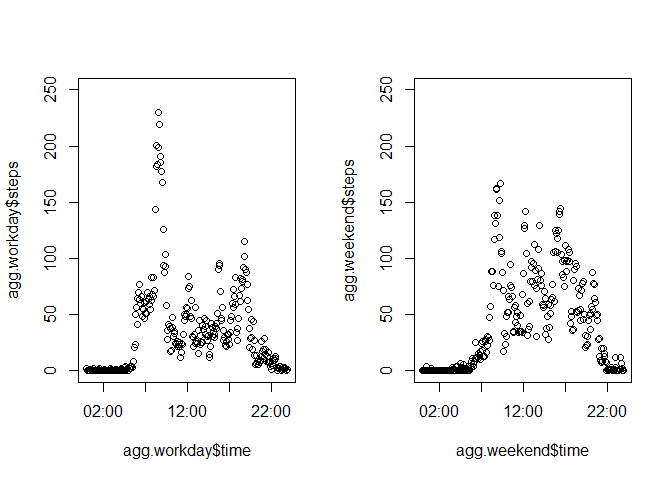
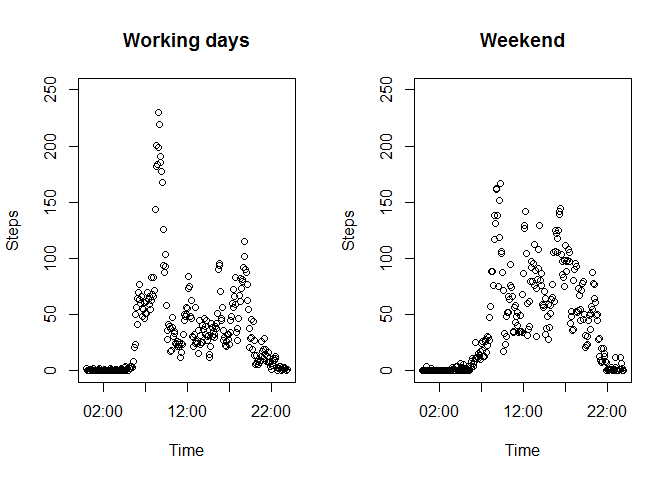
Graph tweaks

diff --git a/PA1_template.html b/PA1_template.html
@@ -139,9 +139,9 @@ names(agg.weekend) &lt;- c(&quot;interval&quot;, &quot;steps&quot;)
 agg.weekend$time&lt;-parse_date_time(agg.weekend$interval, c(&quot;%H%M&quot;, &quot;%M&quot;))
 
 par(mfrow=c(1,2))
-plot(agg.workday$time, agg.workday$steps, ylim=c(0, 250))
-plot(agg.weekend$time, agg.weekend$steps, ylim=c(0, 250))</code></pre>
[1 lines of base64/hex data omitted]
+plot(agg.workday$time, agg.workday$steps, ylim=c(0, 250), xlab=&quot;Time&quot;, ylab=&quot;Steps&quot;, main=&quot;Working days&quot;)
+plot(agg.weekend$time, agg.weekend$steps, ylim=c(0, 250), xlab=&quot;Time&quot;, ylab=&quot;Steps&quot;, main=&quot;Weekend&quot;)</code></pre>
[1 lines of base64/hex data omitted]
 <p>We can see that activity distribution during a day differs on type of a day. On working days people get up earlier, then commute (some part of commuting is walking), walk a bit during their work, then get back home (in the evening they are tired that’s walk less and take public transportaion). During weekend, people get up later, walk a lot during a day, and the distribution of activity is more even. Local minima are probably associated with meals.</p>
 </div>
 

diff --git a/PA1_template.md b/PA1_template.md
@@ -168,8 +168,8 @@ names(agg.weekend) <- c("interval", "steps")
 agg.weekend$time<-parse_date_time(agg.weekend$interval, c("%H%M", "%M"))
 
 par(mfrow=c(1,2))
-plot(agg.workday$time, agg.workday$steps, ylim=c(0, 250))
-plot(agg.weekend$time, agg.weekend$steps, ylim=c(0, 250))
+plot(agg.workday$time, agg.workday$steps, ylim=c(0, 250), xlab="Time", ylab="Steps", main="Working days")
+plot(agg.weekend$time, agg.weekend$steps, ylim=c(0, 250), xlab="Time", ylab="Steps", main="Weekend")
 ```
 
 ![](PA1_template_files/figure-html/unnamed-chunk-9-1.png) 
